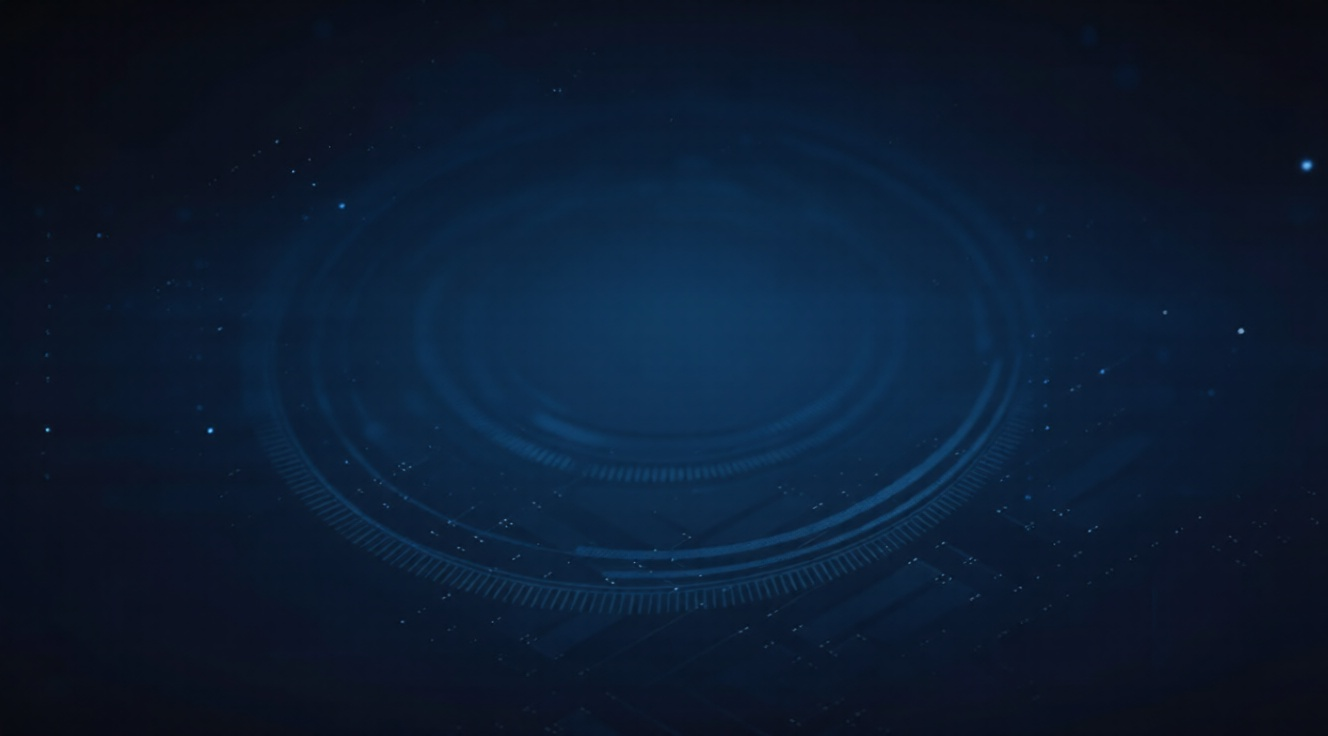
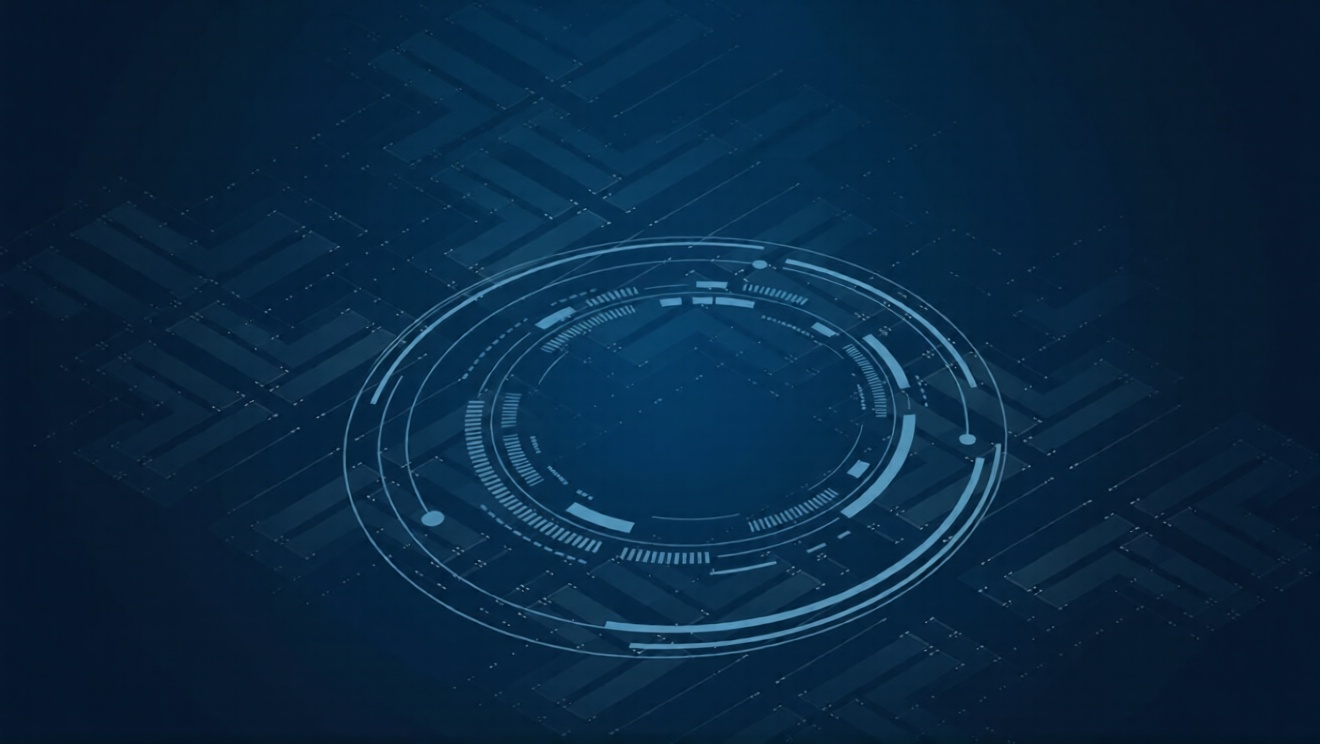
fix: 背景图样式调整；

diff --git a/app/layouts/layout.vue b/app/layouts/layout.vue
@@ -139,7 +139,7 @@ main::before {
   inset: 0; 
   z-index: -1;
   pointer-events: none; 
-  background-image: url('/image/background.png');
+  background-image: url('/image/background.jpg');
   background-size: 100%;
   background-repeat: repeat;
   opacity: 0.45;
